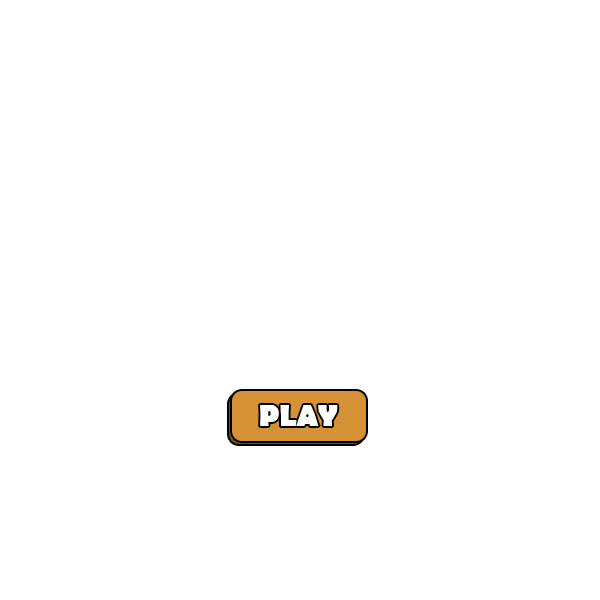
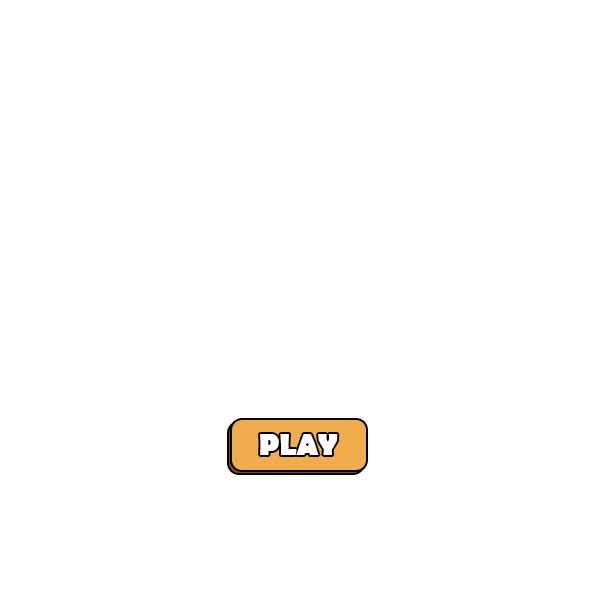
added timer to tuple

Changed region(s): [[0.36, 0.63, 0.63, 0.81]]

diff --git a/main.py b/main.py
@@ -139,13 +139,6 @@ if collapse:
     resumeButtonHover = False
     # MAKE SURE TO ALSO CHANGE VALUES IN RESETVALUES METHOD -------------------------------------------------------
 
-# keys
-if collapse:
-    akey = simplegui.KEY_MAP['a']
-    dkey = simplegui.KEY_MAP['d']
-    leftkey = simplegui.KEY_MAP['left']
-    rightkey = simplegui.KEY_MAP['right']
-
 # audio volumes
 if collapse:
     v_step = 0.4
@@ -646,11 +639,11 @@ def mainMenu():
     # Background
     screen.blit(asset_main_menu, (0, 0))
     # Hover Button
-    if (235 <= mouse_posx <= 365) and (390 <= mouse_posy <= 435) and playButtonClicked == False:
+    if (235 <= mouse_posx <= 365) and (420 <= mouse_posy <= 465) and playButtonClicked == False:
         screen.blit(asset_button_hover, (0, 0))
         playButtonHover = True
     # Click Button
-    elif (235 <= mouse_posx <= 365) and (390 <= mouse_posy <= 435) and playButtonClicked == True:
+    elif (235 <= mouse_posx <= 365) and (420 <= mouse_posy <= 465) and playButtonClicked == True:
         screen.blit(asset_button_clicked, (0, 0))
         playButtonHover = False
     # Normal Button
@@ -870,7 +863,7 @@ drinkResetDelay_timer = simplegui.create_timer(drinkTime, drinkResetDelay_timer_
 
 # timers tuple
 timerTuple = (revolver_reload_timer, sniper_reload_timer, music_timer, startGame_timer, revolverFireDelay_timer,
-              drinkResetDelay_timer)
+              drinkResetDelay_timer, resumeGame_timer, mainMenu_timer)
 
 # Main Menu Music
 intromusic.play(-1)
@@ -884,6 +877,7 @@ while True:
         if event.type == pygame.QUIT:
             pygame.mixer.stop()
             music_timer.stop()
+            stopAllTimers(timerTuple)
             pygame.quit()
             sys.exit()
         # Keyboard Handler
